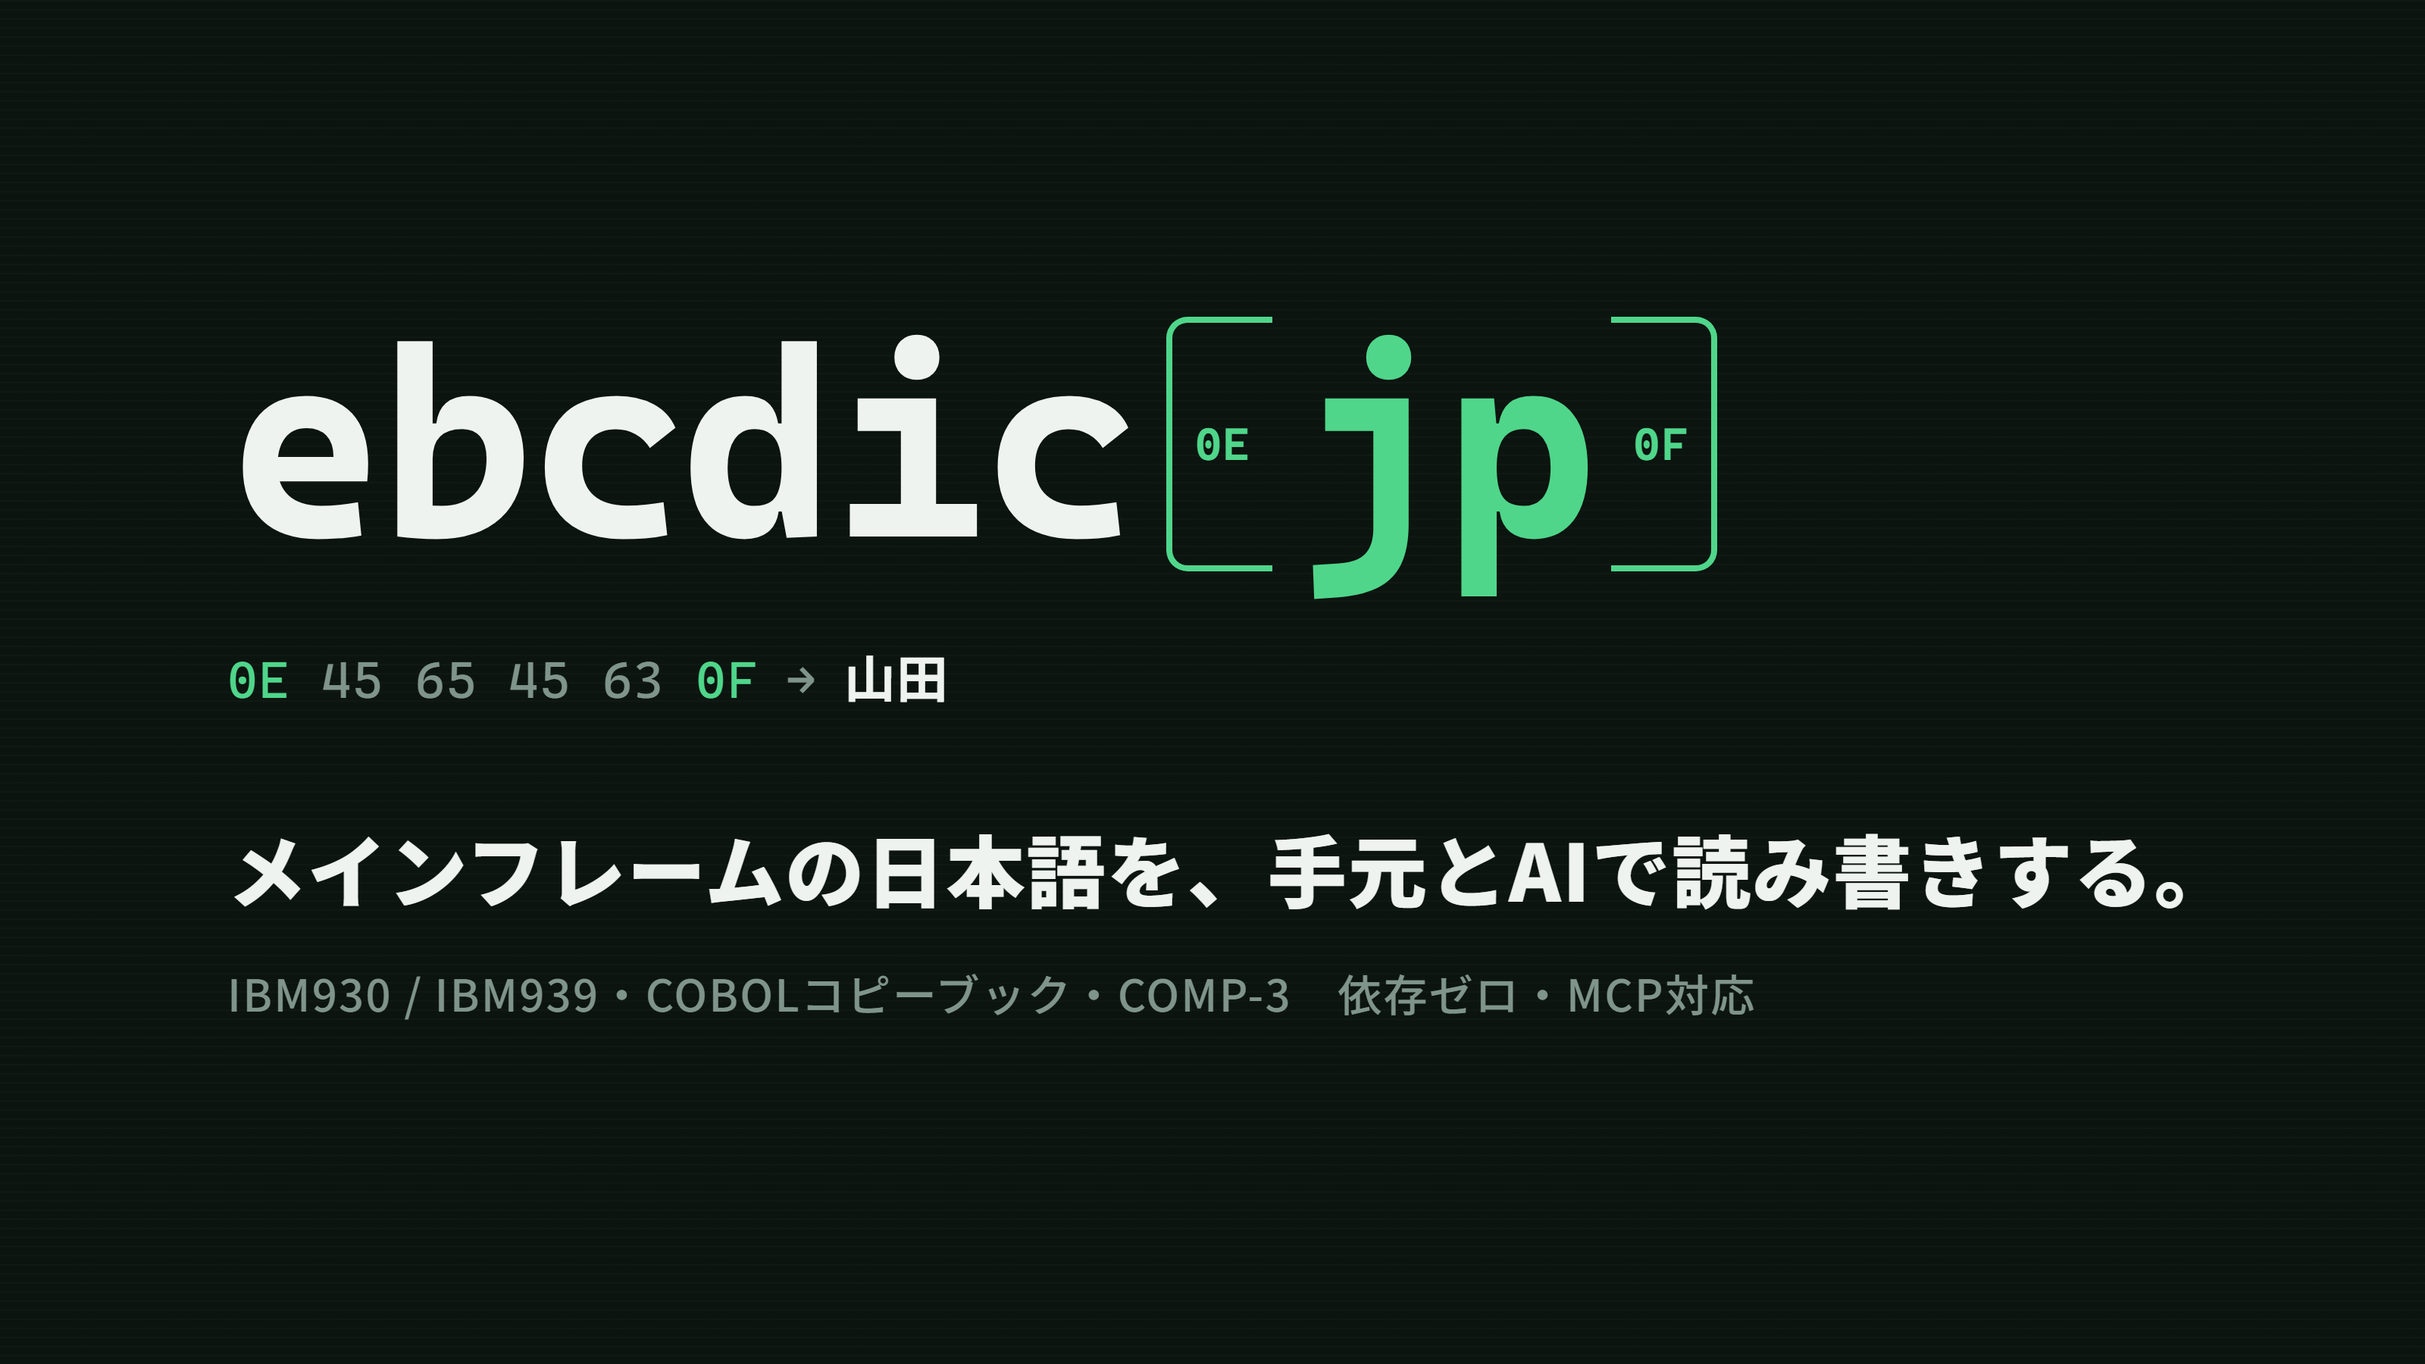
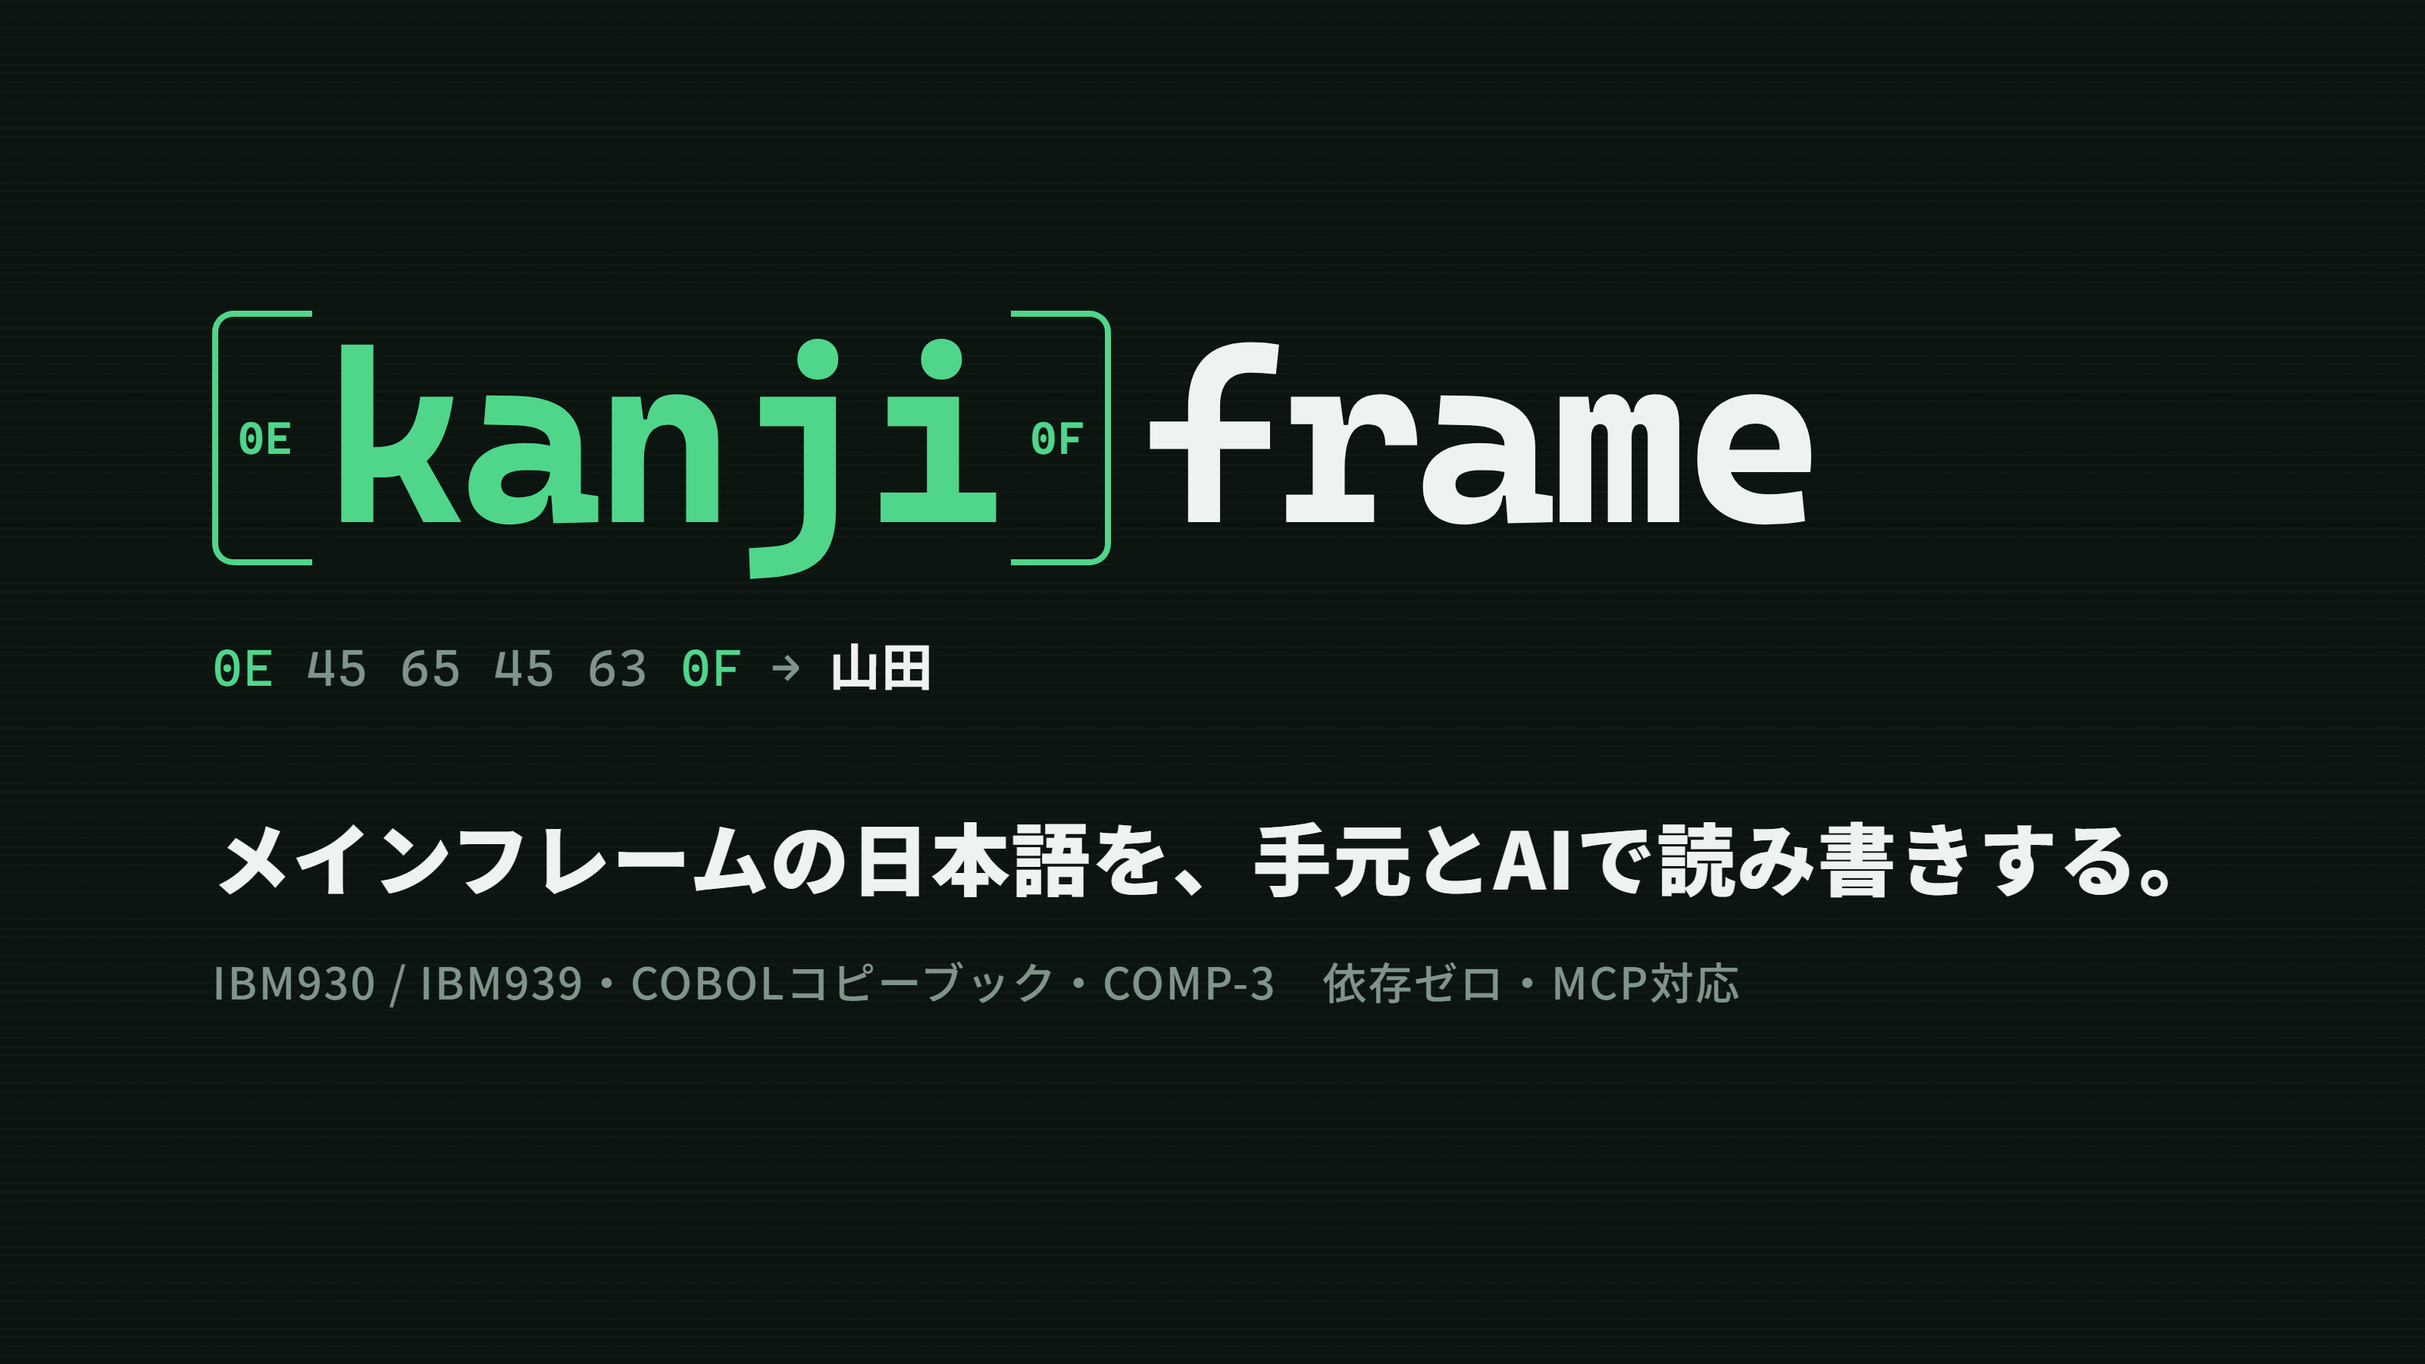
Rename ebcdicjp to kanjiframe; new hero image
The old name was hard to read. kanjiframe: kanji on the mainframe, and the SO/SI
bytes (0E ... 0F) that frame each kanji run, which the logo shows.
Package, CLI (kanjiframe / kanjiframe-mcp), MCP server, skill and docs renamed.

diff --git a/assets/hero.html b/assets/hero.html
@@ -2,7 +2,7 @@
 <html lang="ja">
 <head>
 <meta charset="utf-8">
-<title>ebcdicjp hero</title>
+<title>kanjiframe hero</title>
 <!-- Source of assets/hero.png. Render: msedge --headless --screenshot=hero.png --window-size=1600,900 --force-device-scale-factor=2 hero.html -->
 <style>
   :root {
@@ -19,17 +19,17 @@
     background-image: repeating-linear-gradient(0deg, transparent 0 5px, rgba(255,255,255,0.018) 5px 6px);
     font-family: "Noto Sans JP", "Yu Gothic", sans-serif;
   }
-  .content { position: absolute; left: 150px; top: 205px; }
+  .content { position: absolute; left: 140px; top: 205px; }
   .word { display: flex; align-items: center; font-family: "Cascadia Mono", Consolas, monospace; font-weight: 700; }
-  .word .base { font-size: 176px; color: var(--ink); letter-spacing: -0.02em; line-height: 1; }
-  .word .jp { font-size: 176px; color: var(--green); line-height: 1; margin: 0 6px; letter-spacing: -0.02em; }
+  .word .base { font-size: 160px; color: var(--ink); letter-spacing: -0.03em; line-height: 1; margin-left: 18px; }
+  .word .jp { font-size: 160px; color: var(--green); line-height: 1; margin: 0 4px; letter-spacing: -0.03em; }
   .shift {
     display: flex; flex-direction: column; align-items: center; justify-content: center;
-    height: 168px; width: 70px; margin: 0 6px; box-sizing: border-box;
+    height: 168px; width: 66px; margin: 0 4px; box-sizing: border-box;
     border: 4px solid var(--green); color: var(--green);
     font-size: 30px; font-weight: 700; letter-spacing: 0.02em;
   }
-  .shift.so { border-right: none; border-radius: 14px 0 0 14px; margin-left: 22px; }
+  .shift.so { border-right: none; border-radius: 14px 0 0 14px; margin-left: 0; }
   .shift.si { border-left: none;  border-radius: 0 14px 14px 0; }
   .hex {
     margin-top: 40px; font-family: "Cascadia Mono", Consolas, monospace; font-size: 34px; color: var(--dim);
@@ -46,7 +46,7 @@
   <div class="card">
     <div class="content">
       <div class="word">
-        <span class="base">ebcdic</span><span class="shift so">0E</span><span class="jp">jp</span><span class="shift si">0F</span>
+        <span class="shift so">0E</span><span class="jp">kanji</span><span class="shift si">0F</span><span class="base">frame</span>
       </div>
       <div class="hex"><span class="k">0E</span> 45 65 45 63 <span class="k">0F</span><span class="arrow">→</span><span class="out">山田</span></div>
       <div class="tag">メインフレームの日本語を、手元とAIで読み書きする。</div>

diff --git a/tests/test_codec.py b/tests/test_codec.py
@@ -11,8 +11,8 @@ HERE = os.path.dirname(os.path.abspath(__file__))
 ROOT = os.path.dirname(HERE)
 sys.path.insert(0, os.path.join(ROOT, "src"))
 
-import ebcdicjp  # noqa: E402
-from ebcdicjp.tables import load  # noqa: E402
+import kanjiframe  # noqa: E402
+from kanjiframe.tables import load  # noqa: E402
 
 JAVA = shutil.which("java")
 
@@ -50,11 +50,11 @@ class BasicTests(unittest.TestCase):
 
     def test_930_vs_939_lowercase(self):
         # IBM930 has half-width katakana where IBM939 has a-z
-        self.assertEqual(ebcdicjp.decode(b"\x81", "ibm939"), "a")
-        self.assertNotEqual(ebcdicjp.decode(b"\x81", "ibm930"), "a")
+        self.assertEqual(kanjiframe.decode(b"\x81", "ibm939"), "a")
+        self.assertNotEqual(kanjiframe.decode(b"\x81", "ibm930"), "a")
 
     def test_report_lists_problems_with_offsets(self):
-        text, issues = ebcdicjp.decode_report(b"\xc1\x0e\x45\x65\xc1", "ibm939")
+        text, issues = kanjiframe.decode_report(b"\xc1\x0e\x45\x65\xc1", "ibm939")
         self.assertEqual([i.kind for i in issues], ["bad-shift"])  # the lone C1 at the end is the missing SI, reported once
         self.assertEqual(issues[0].offset, 1)  # pointed at the SO where the kanji run began
         with self.assertRaises(UnicodeDecodeError):
@@ -62,21 +62,21 @@ class BasicTests(unittest.TestCase):
         self.assertEqual(b"\x0f".decode("ibm939", "replace"), "")
 
     def test_one_way_characters_are_reported(self):
-        data, issues = ebcdicjp.encode_report("〜", "ibm930")
+        data, issues = kanjiframe.encode_report("〜", "ibm930")
         self.assertEqual(issues[0].kind, "one-way")
-        self.assertEqual(ebcdicjp.decode(data, "ibm930"), "～")  # U+301C comes back as U+FF5E
+        self.assertEqual(kanjiframe.decode(data, "ibm930"), "～")  # U+301C comes back as U+FF5E
 
     def test_unencodable(self):
         with self.assertRaises(UnicodeEncodeError):
             "😀".encode("ibm930")
-        data, issues = ebcdicjp.encode_report("A😀", "ibm939")
+        data, issues = kanjiframe.encode_report("A😀", "ibm939")
         self.assertEqual(issues[0].kind, "unencodable")
 
     def test_dbcs_only_fields(self):
-        data = ebcdicjp.encode("山田　A", "ibm939", dbcs_only=True)  # PIC N: no SO/SI, A becomes Ａ
+        data = kanjiframe.encode("山田　A", "ibm939", dbcs_only=True)  # PIC N: no SO/SI, A becomes Ａ
         self.assertEqual(len(data), 8)
         self.assertNotIn(0x0E, data)
-        self.assertEqual(ebcdicjp.decode(data, "ibm939", dbcs_only=True), "山田　Ａ")
+        self.assertEqual(kanjiframe.decode(data, "ibm939", dbcs_only=True), "山田　Ａ")
 
 
 @unittest.skipUnless(JAVA, "java not installed: reference comparison skipped")
@@ -86,10 +86,10 @@ class JdkReferenceTests(unittest.TestCase):
         strings = sample_strings(t, 600, seed)
         want = oracle("enc", charset, [" ".join(f"{ord(c):04X}" for c in s) for s in strings])
         for s, w in zip(strings, want):
-            self.assertEqual(ebcdicjp.encode(s, codepage).hex().upper(), w, repr(s))
+            self.assertEqual(kanjiframe.encode(s, codepage).hex().upper(), w, repr(s))
         got = oracle("dec", charset, want)
         for s, w, g in zip(strings, want, got):
-            text = ebcdicjp.decode(bytes.fromhex(w), codepage)
+            text = kanjiframe.decode(bytes.fromhex(w), codepage)
             self.assertEqual(" ".join(f"{ord(c):04X}" for c in text), g, repr(s))
 
     def test_ibm930_matches_jdk(self):

diff --git a/src/kanjiframe/cli.py b/src/kanjiframe/cli.py
@@ -1,12 +1,12 @@
-"""ebcdicjp command line.
+"""kanjiframe command line.
 
-    ebcdicjp layout CUSTMAST.cpy                         # field positions / lengths
-    ebcdicjp view   CUST.dat -c CUSTMAST.cpy [--format jsonl|csv|md]
-    ebcdicjp check  CUST.dat -c CUSTMAST.cpy --key CUST-NO   # every problem in the file, one line each
-    ebcdicjp dump   CUST.dat -c CUSTMAST.cpy --skip 4 -n 1   # hex next to each value (for 文字化け hunting)
-    ebcdicjp encode records.jsonl -c CUSTMAST.cpy -o CUST.dat --codepage ibm930   # test data
-    ebcdicjp text   0E 45 65 45 63 0F                     # decode hex bytes;  --encode "山田" for the reverse
-    ebcdicjp detect CUST.dat [-c CUSTMAST.cpy]            # IBM930 or IBM939?
+    kanjiframe layout CUSTMAST.cpy                         # field positions / lengths
+    kanjiframe view   CUST.dat -c CUSTMAST.cpy [--format jsonl|csv|md]
+    kanjiframe check  CUST.dat -c CUSTMAST.cpy --key CUST-NO   # every problem in the file, one line each
+    kanjiframe dump   CUST.dat -c CUSTMAST.cpy --skip 4 -n 1   # hex next to each value (for 文字化け hunting)
+    kanjiframe encode records.jsonl -c CUSTMAST.cpy -o CUST.dat --codepage ibm930   # test data
+    kanjiframe text   0E 45 65 45 63 0F                     # decode hex bytes;  --encode "山田" for the reverse
+    kanjiframe detect CUST.dat [-c CUSTMAST.cpy]            # IBM930 or IBM939?
 
 Code page, RDW and the copybook's encoding are detected unless given; what was assumed is
 printed as "note:" lines. Byte positions are 1-based everywhere, like the layout.
@@ -137,9 +137,9 @@ def main(argv: list[str] | None = None) -> int:
     for s in (sys.stdout, sys.stderr):
         if hasattr(s, "reconfigure"):
             s.reconfigure(encoding="utf-8")
-    ap = argparse.ArgumentParser(prog="ebcdicjp", description="日本語EBCDIC（IBM930/939）のメインフレームデータを読み書きする",
+    ap = argparse.ArgumentParser(prog="kanjiframe", description="日本語EBCDIC（IBM930/939）のメインフレームデータを読み書きする",
                                  epilog=__doc__.split("\n\n", 1)[1], formatter_class=argparse.RawDescriptionHelpFormatter)
-    ap.add_argument("--version", action="version", version=f"ebcdicjp {__version__}")
+    ap.add_argument("--version", action="version", version=f"kanjiframe {__version__}")
     sub = ap.add_subparsers(dest="cmd", required=True)
 
     def copybook_opts(p, required=True):

diff --git a/src/kanjiframe/mcp_server.py b/src/kanjiframe/mcp_server.py
@@ -1,7 +1,7 @@
-"""Zero-dependency MCP (Model Context Protocol) stdio server for ebcdicjp.
+"""Zero-dependency MCP (Model Context Protocol) stdio server for kanjiframe.
 
 Register with Claude Code:
-    claude mcp add ebcdicjp -- ebcdicjp-mcp
+    claude mcp add kanjiframe -- kanjiframe-mcp
 """
 from __future__ import annotations
 
@@ -149,7 +149,7 @@ def handle(msg: dict) -> dict | None:
             result = {
                 "protocolVersion": req if req in PROTOCOL_VERSIONS else PROTOCOL_VERSIONS[0],
                 "capabilities": {"tools": {"listChanged": False}},
-                "serverInfo": {"name": "ebcdicjp", "version": __version__},
+                "serverInfo": {"name": "kanjiframe", "version": __version__},
                 "instructions": ("Japanese mainframe data: start with describe_layout on the copybook, then read_records "
                                  "with a small limit. If kana or lowercase look wrong, try detect_codepage. Report the "
                                  "issues read_records returns instead of guessing what the bytes meant."),

diff --git a/tests/test_cli_mcp.py b/tests/test_cli_mcp.py
@@ -11,7 +11,7 @@ HERE = os.path.dirname(os.path.abspath(__file__))
 ROOT = os.path.dirname(HERE)
 sys.path.insert(0, os.path.join(ROOT, "src"))
 
-from ebcdicjp.cli import main  # noqa: E402
+from kanjiframe.cli import main  # noqa: E402
 
 CPY = os.path.join(HERE, "data", "custmast.cpy")
 
@@ -73,7 +73,7 @@ class McpTests(unittest.TestCase):
                 "path": out, "copybook": CPY}}},
         ]
         env = dict(os.environ, PYTHONPATH=os.path.join(ROOT, "src"))
-        p = subprocess.run([sys.executable, "-m", "ebcdicjp.mcp_server"], input="\n".join(json.dumps(m) for m in msgs),
+        p = subprocess.run([sys.executable, "-m", "kanjiframe.mcp_server"], input="\n".join(json.dumps(m) for m in msgs),
                            capture_output=True, text=True, encoding="utf-8", env=env, timeout=60)
         resp = [json.loads(ln) for ln in p.stdout.splitlines()]
         self.assertEqual(len(resp[1]["result"]["tools"]), 6)

diff --git a/tests/test_detect.py b/tests/test_detect.py
@@ -9,9 +9,9 @@ import unittest
 HERE = os.path.dirname(os.path.abspath(__file__))
 sys.path.insert(0, os.path.join(HERE, "..", "src"))
 
-from ebcdicjp import decode_report  # noqa: E402
-from ebcdicjp.api import load_layout, read_copybook, read_records, rdw_records, write_records  # noqa: E402
-from ebcdicjp.cli import main  # noqa: E402
+from kanjiframe import decode_report  # noqa: E402
+from kanjiframe.api import load_layout, read_copybook, read_records, rdw_records, write_records  # noqa: E402
+from kanjiframe.cli import main  # noqa: E402
 
 # Shift_JIS, fixed format: sequence numbers in 1-6, identifiers from column 73
 COPYBOOK = (

diff --git a/tools/build_tables.py b/tools/build_tables.py
@@ -1,4 +1,4 @@
-"""Pack the JDK dumps (tools/GenTables.java -> local/*.tsv) into src/ebcdicjp/data/*.bin.
+"""Pack the JDK dumps (tools/GenTables.java -> local/*.tsv) into src/kanjiframe/data/*.bin.
 
     java tools/GenTables.java local
     python tools/build_tables.py local
@@ -14,7 +14,7 @@ import sys
 import zlib
 
 src = sys.argv[1] if len(sys.argv) > 1 else "local"
-dst = os.path.join(os.path.dirname(__file__), "..", "src", "ebcdicjp", "data")
+dst = os.path.join(os.path.dirname(__file__), "..", "src", "kanjiframe", "data")
 os.makedirs(dst, exist_ok=True)
 for name in ("ibm930", "ibm939"):
     sbcs = [0xFFFF] * 256

diff --git a/tests/test_record.py b/tests/test_record.py
@@ -7,8 +7,8 @@ from decimal import Decimal
 HERE = os.path.dirname(os.path.abspath(__file__))
 sys.path.insert(0, os.path.join(os.path.dirname(HERE), "src"))
 
-from ebcdicjp import copybook, numbers  # noqa: E402
-from ebcdicjp.record import RecordError, decode_record, encode_record, split_records  # noqa: E402
+from kanjiframe import copybook, numbers  # noqa: E402
+from kanjiframe.record import RecordError, decode_record, encode_record, split_records  # noqa: E402
 
 CPY = open(os.path.join(HERE, "data", "custmast.cpy"), encoding="utf-8").read()
 JAVA = shutil.which("java")

diff --git a/src/kanjiframe/tables.py b/src/kanjiframe/tables.py
@@ -41,7 +41,7 @@ def load(name: str) -> Table:
         raise LookupError(f"unknown EBCDIC code page: {name!r} (have: ibm930, ibm939)")
     if key in _cache:
         return _cache[key]
-    raw = zlib.decompress(resources.files("ebcdicjp").joinpath(f"data/{key}.bin").read_bytes())
+    raw = zlib.decompress(resources.files("kanjiframe").joinpath(f"data/{key}.bin").read_bytes())
     sbcs = list(struct.unpack_from(">256H", raw, 0))
     pos = 512
     flat = struct.unpack_from(f">{191 * 191}H", raw, pos)

diff --git a/tools/MakeSample.java b/tools/MakeSample.java
@@ -1,4 +1,4 @@
-// Build tests/data/custmast_930.dat independently of ebcdicjp: text via the JDK's x-IBM930,
+// Build tests/data/custmast_930.dat independently of kanjiframe: text via the JDK's x-IBM930,
 // numbers via this file's own packing code. Used as "a file from the mainframe" in tests and trials.
 //
 //   java tools/MakeSample.java tests/data/custmast_930.dat

diff --git a/src/kanjiframe/__init__.py b/src/kanjiframe/__init__.py
@@ -1,4 +1,4 @@
-"""ebcdicjp — read and write Japanese mainframe data (EBCDIC kana/kanji, COBOL records)."""
+"""kanjiframe — read and write Japanese mainframe data (EBCDIC kana/kanji, COBOL records)."""
 from .codec import decode, decode_report, encode, encode_report, register
 
 __version__ = "0.1.0"
